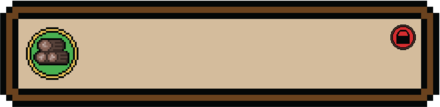
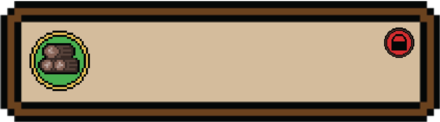
Fixed positioning of achievement interface title and exit button

Changed region(s): [[0.0, 0.0, 1.0, 1.0]]

diff --git a/source/core/src/main/com/deco2800/game/components/achievements/AchievementInterface.java b/source/core/src/main/com/deco2800/game/components/achievements/AchievementInterface.java
@@ -87,7 +87,7 @@ public class AchievementInterface extends UIComponent {
         Label title = new Label("Achievements", skin, "title");
         title.setFontScale(2f);
         title.setAlignment(Align.center);
-        rootTable.add(title).colspan(8).expand().pad(20f, 0f, 20f, 0f);
+        rootTable.add(title).expandX().pad(60f, 0f, 50f, 0f);
 
         // Background Colour
         Texture background = new Texture(Gdx.files.internal("images/achievements/Background_2540x1033.png"));
@@ -164,7 +164,7 @@ public class AchievementInterface extends UIComponent {
 
         this.addButtonEvent(backButton, "Exit");
 
-        rootTable.add(backButton).size(40f).pad(5);
+        rootTable.add(backButton).size(40f).pad(60f);
 
         // Display main content
         displayTable.align(Align.top);
@@ -331,30 +331,33 @@ public class AchievementInterface extends UIComponent {
         achievementCard.add(descriptionLabel).colspan(3).expandX();
         achievementCard.row();
 
+
+        Label tempLabel;
+
         for (String s : achievementDescription) {
             if (achievementDescription.indexOf(s) == 0) {
                 continue;
             }
 
-            descriptionLabel = new Label(s, skin, "large");
-            descriptionLabel.setFontScale(0.7f);
-            achievementCard.add(descriptionLabel).colspan(3).expandX();
+            tempLabel = new Label(s, skin, "large");
+            tempLabel.setFontScale(0.7f);
+            achievementCard.add(tempLabel).colspan(3).expandX();
             achievementCard.row();
         }
 
         if (achievementDescription.size() == 1) {
-            descriptionLabel = new Label("", skin, "large");
-            descriptionLabel.setFontScale(0.7f);
-            achievementCard.add(descriptionLabel).colspan(3).expandX();
+            tempLabel = new Label("", skin, "large");
+            tempLabel.setFontScale(0.7f);
+            achievementCard.add(tempLabel).colspan(3).expandX();
             achievementCard.row();
         }
 
         if (achievement.isStat()) {
             achievementCard.add(buildAchievementMilestoneButtons(achievement, descriptionLabel)).expandX().colspan(3).padBottom(20).align(Align.center);
         } else {
-            descriptionLabel = new Label("", skin, "large");
-            descriptionLabel.setFontScale(0.7f);
-            achievementCard.add(descriptionLabel).colspan(3).expandX();
+            tempLabel = new Label("", skin, "large");
+            tempLabel.setFontScale(0.7f);
+            achievementCard.add(tempLabel).colspan(3).expandX();
             achievementCard.row();
         }
 
